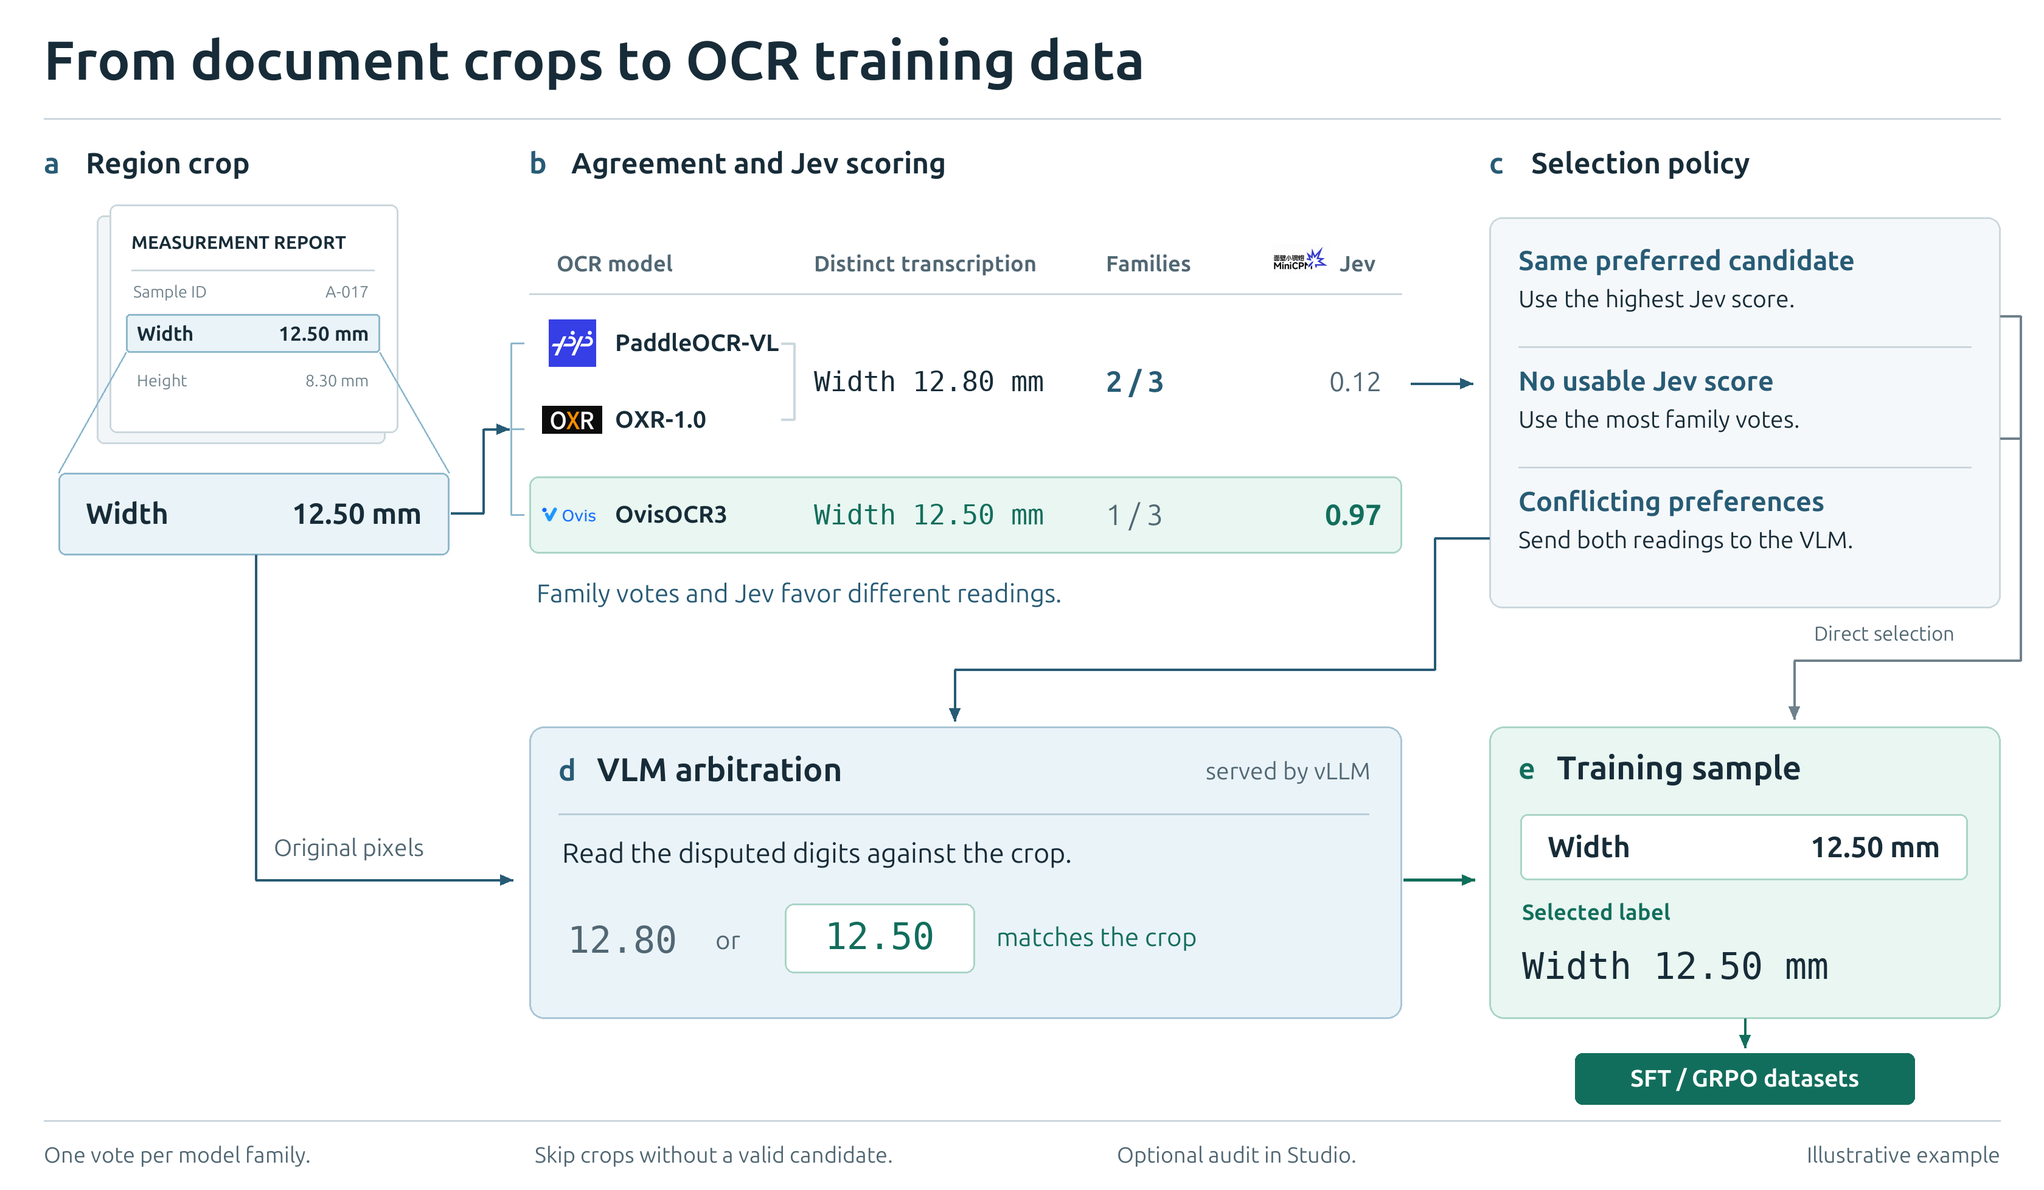
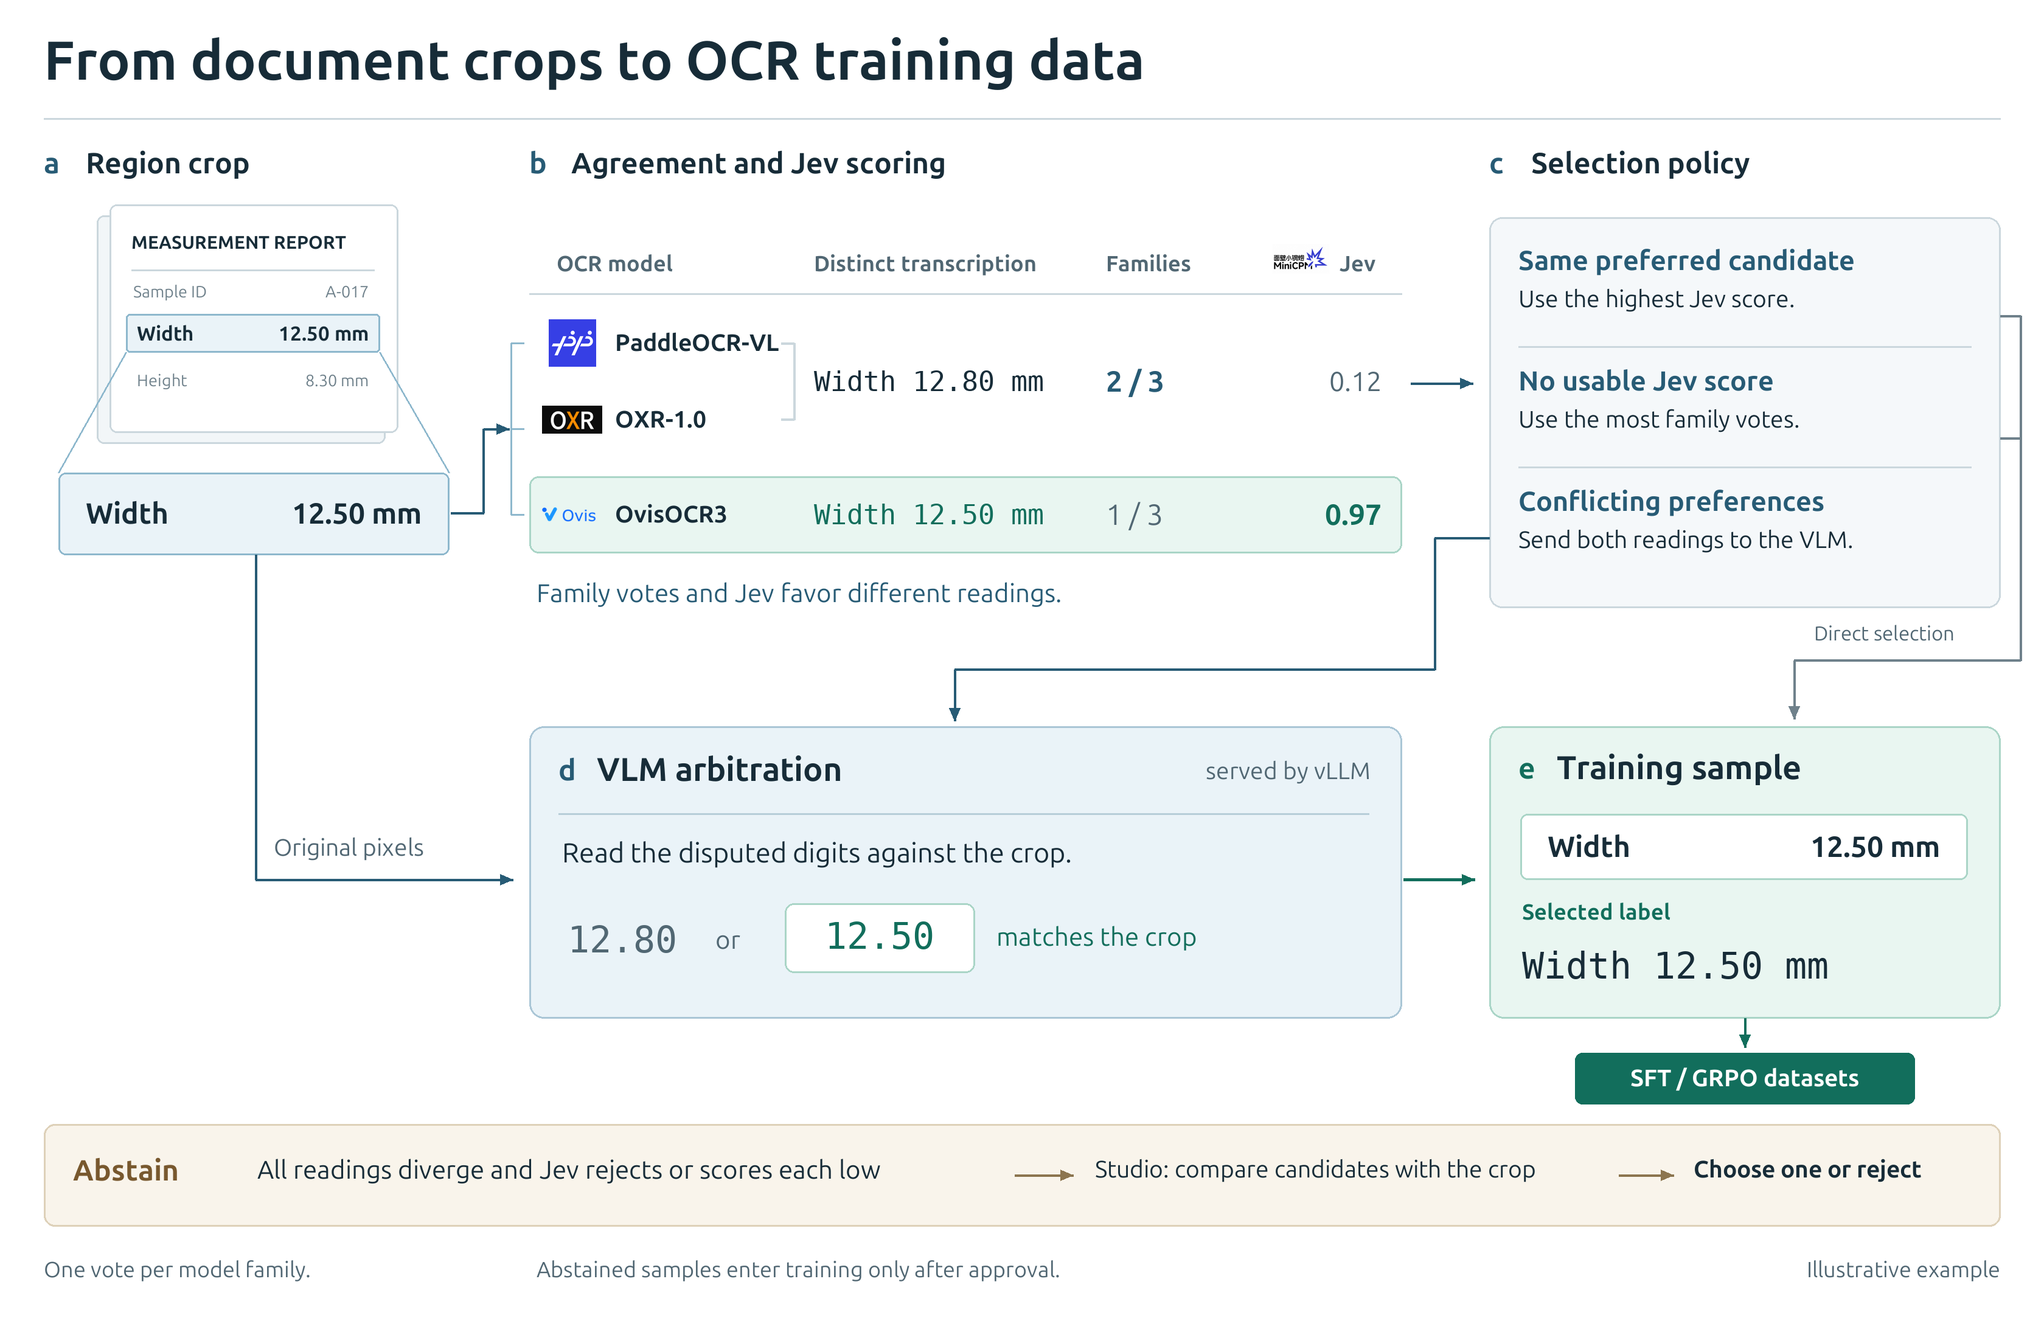
Defer unsupported OCR labels to manual model selection

diff --git a/rsi_ocr/review_ui/workbench.js b/rsi_ocr/review_ui/workbench.js
@@ -8,6 +8,7 @@ const names = {paddle: "PaddleOCR‑VL", oxr: "OXR‑1.0", ovis: "OvisOCR3", jev
 const tasks = {text: "文字", table: "表格"};
 const selectionReasons = {low_score: "最高分偏低", close_scores: "不同转录的分数接近",
   partial_scores: "部分候选评分失败", judge_disabled: "Jev 已关闭",
+  disagree_without_judge_support: "各候选转录两两分歧，Jev 均为低分或预检拒绝",
   no_valid_output: "没有有效转录", no_scored_output: "Jev 未返回可用分数",
   all_precheck_rejected: "全部候选被 Jev 预检拒绝", family_agreement: "多个模型家族转录一致",
   policy_tiebreak: "支持数并列，按配置顺序选择", sole_candidate: "仅有一份可选转录"};
@@ -108,7 +109,7 @@ function renderQueue() {
     const selected = state.current === row.case_id;
     const title = row.doc_id.split("/").pop();
     const status = row.review_status !== "pending" ? statuses[row.review_status] :
-      row.selection_status === "selected" ? nameOf(row.automatic_model) + " · 自动选定" : "无有效转录";
+      row.selection_status === "selected" ? nameOf(row.automatic_model) + " · 自动选定" : row.selection_status === "needs_choice" ? "待人工选模" : "无有效转录";
     return `<button class="queue-item ${selected ? "selected" : ""}" data-case="${esc(row.case_id)}"
       aria-current="${selected}" title="${esc(row.doc_id)} · ${esc(row.region_id)}">
       <strong>${esc(title)}</strong><span class="queue-meta"><span class="row-detail">页 ${esc(row.page_id)} · 区域 ${esc(row.region_id)} · ${esc(tasks[row.task] || row.task)}</span>
@@ -145,6 +146,7 @@ function filterQueue() {
   state.rows = state.data.rows.filter(row => (
     (state.level === "all" || difficultyOf(row) === state.level) &&
     (scope === "all" || (scope === "queue" && row.queued) || (scope === "audit" && row.audit_sample)
+      || (scope === "needs_choice" && row.selection_status === "needs_choice" && row.review_status === "pending")
       || (scope === "selection_check" && row.selection_flagged)
       || (scope === "outside" && !row.queued))
     && (state.task === "all" || row.task === state.task)
@@ -540,6 +542,7 @@ function renderComparison() {
   const automatic = selection.model_alias;
   const adopted = row.decision?.status === "approved" ? row.decision.model_alias : automatic;
   const heading = row.decision?.status === "rejected" ? "已驳回 · 候选转录" :
+    !alias && selection.status === "needs_choice" ? "请选择模型转录" :
     alias === adopted || !alias ? "采用的 OCR 标签" : "候选转录预览";
   q("#selection-heading").textContent = heading;
   q("#selection-model").textContent = alias ? nameOf(alias) : "";
@@ -552,7 +555,9 @@ function renderComparison() {
   q("#selection-detail").textContent = details.join("　");
   q("#selection-detail").classList.toggle("needs-attention", selection.reasons.length > 0);
   const preview = row.baseline_views[alias];
-  q("#selection-output").innerHTML = alias ? output(model.label, preview, false) : '<p class="output-empty">没有有效的 OCR 转录</p>';
+  q("#selection-output").innerHTML = alias ? output(model.label, preview, false) : selection.status === "needs_choice"
+    ? '<p class="output-empty">请对照裁图选择一份转录。若全部有误，可驳回此样本。</p>'
+    : '<p class="output-empty">没有有效的 OCR 转录</p>';
   if (row.task === "table") {
     q("#selection-table").hidden = !preview?.rows;
     q("#selection-table").textContent = `查看完整表格 · ${preview?.rows?.length || 0} 行 × ${sheetWidth(preview)} 列`;
@@ -639,7 +644,7 @@ function renderCase() {
     <div class="case-header">
       <div class="case-heading">
         <div class="case-eyebrow"><span class="task-chip">${esc(tasks[row.task])}</span>
-          <span class="case-status ${esc(stateLabel)}">${esc(decision ? statuses[stateLabel] : row.selection.model_alias ? "已自动选定" : "无有效转录")}</span>
+          <span class="case-status ${esc(stateLabel)}">${esc(decision ? statuses[stateLabel] : row.selection.model_alias ? "已自动选定" : row.selection.status === "needs_choice" ? "待人工选模" : "无有效转录")}</span>
           ${listed?.target_error ? '<span class="case-status incorrect">Paddle 有误</span>' : ""}
           ${listed?.repairable ? '<span class="case-status correct">有正确替代</span>' : ""}</div>
         <h2 title="${esc(row.doc_id)}">${esc(row.doc_id.split("/").pop())}</h2>
@@ -667,9 +672,9 @@ function renderCase() {
         <p class="selection-detail" id="selection-detail"></p>
         ${referenceVerdict(row.selection_gt)}
       </section>
-      <details class="panel inspection-details" id="comparison-details"><summary>各模型转录与判定依据</summary>
+      <details class="panel inspection-details" id="comparison-details" ${row.selection.status === "needs_choice" && !decision ? "open" : ""}><summary>各模型转录与判定依据</summary>
         <div class="preview-tools"><fieldset><legend>显示模型</legend><div id="visible-models"></div></fieldset>
-          <label>人工采用<select id="adopt-model"><option value="" disabled>选择转录</option>${Object.keys(row.models).map(key =>
+          <label>人工采用<select id="adopt-model"><option value="" disabled>选择转录</option>${Object.keys(row.models).filter(key => row.models[key].label).map(key =>
             `<option value="${esc(key)}">${esc(nameOf(key))} · ${number(row.models[key].judge?.prob_yes)}</option>`).join("")}</select></label></div>
         <section class="decision-summary">
           <div><h3>${listed?.queued ? (row.audit_sample ? "随机抽检入队" : "难例入队") : "未入审核队列"} · 判定依据</h3><div class="chips">${badges}</div>${evidenceDetails(row)}</div>
@@ -720,7 +725,7 @@ function changeCase(offset) {
 }
 
 async function saveReview(status) {
-  if (state.saving) return;
+  if (state.saving || (status === "approved" && !state.case?.models[state.compare]?.label)) return;
   const path = casePath();
   const row = state.rows.find(item => item.case_id === state.current);
   const next = state.rows.slice(state.rows.indexOf(row) + 1).find(item => item.review_status === "pending")
@@ -892,7 +897,7 @@ function renderOverview() {
   const scores = summary.judge_status;
   const totalScores = Object.values(scores).reduce((sum, count) => sum + count, 0);
   const cards = [["区域总数", rows.length], ["规则命中", summary.hard_cases], ["已自动选定", rows.filter(row => row.selection_status === "selected").length],
-    ["已完成复核", reviewed], ["Jev 有效评分率", totalScores ? percent((scores.scored || 0) / totalScores) : "—"]];
+    ["待人工选模", rows.filter(row => row.selection_status === "needs_choice" && row.review_status === "pending").length], ["已完成复核", reviewed], ["Jev 有效评分率", totalScores ? percent((scores.scored || 0) / totalScores) : "—"]];
   if (summary.training) cards.push(["批次训练集", summary.training.train], ["批次验证集", summary.training.val]);
   const counts = {};
   rows.forEach(row => row.reasons.forEach(key => { counts[key] = (counts[key] || 0) + 1; }));

diff --git a/rsi_ocr/review_ui/index.html b/rsi_ocr/review_ui/index.html
@@ -5,7 +5,7 @@
   <meta name="viewport" content="width=device-width, initial-scale=1">
   <title>GlyphStack · 文档复核</title>
   <link rel="stylesheet" href="/assets/workbench.css">
-  <script src="/assets/workbench.js?v=training-labels-1" defer></script>
+  <script src="/assets/workbench.js?v=human-choice-1" defer></script>
   <script src="/assets/settings.js" defer></script>
 </head>
 <body>
@@ -66,7 +66,7 @@
         <input id="search" type="search" placeholder="搜索文档、区域或样本 ID">
           <label><span>样本范围</span><select id="scope">
             <option value="all">全部样本</option><option value="queue">抽查队列</option>
-            <option value="selection_check">择优有提示</option><option value="audit">随机抽审</option><option value="outside">未入队</option>
+            <option value="needs_choice">待人工选模</option><option value="selection_check">择优有提示</option><option value="audit">随机抽审</option><option value="outside">未入队</option>
           </select></label>
         <details class="advanced" id="queue-filters"><summary>筛选条件<span id="filter-count"></span></summary>
           <div id="difficulty" class="segments" aria-label="难度"></div>

diff --git a/rsi_ocr/mining.py b/rsi_ocr/mining.py
@@ -1,6 +1,6 @@
 from collections import Counter, defaultdict
 from concurrent.futures import FIRST_COMPLETED, ThreadPoolExecutor, wait
-from itertools import islice
+from itertools import combinations, islice
 from pathlib import Path
 
 from .formats import NUMBER, normalize, similarity, table_cells, table_html, table_metrics
@@ -112,7 +112,7 @@ def proposals(case, inputs, target_alias, policy):
                                            row["judge"].get("prob_yes") or 0), reverse=True)
 
 
-def choose_transcription(models, target, policy):
+def choose_transcription(models, target, policy, task="text"):
     order = dict.fromkeys([target, *policy.get("teachers", []), *sorted(models)])
     valid = [key for key in order if key in models and models[key].get("status") == "ok" and models[key].get("label")]
     choice = {"model_alias": None, "prob_yes": None, "margin": None, "status": "unavailable", "reasons": []}
@@ -128,6 +128,15 @@ def choose_transcription(models, target, policy):
             ranked.append((alias, score))
         elif judge.get("status") != "precheck_reject":
             partial = True
+    # A failed request is missing evidence. Only a score or a precheck verdict
+    # can establish that Jev assessed a candidate.
+    if (policy.get("judge") and len(valid) >= 2 and not partial
+            and all(score <= policy["low_judge"] for _, score in ranked)):
+        threshold = policy["disagreement"]
+        labels = [models[alias]["label"] for alias in valid]
+        distances = (compare(task, left, right)[0] for left, right in combinations(labels, 2))
+        if all(distance > 0 and distance >= threshold for distance in distances):
+            return {**choice, "status": "needs_choice", "reasons": ["disagree_without_judge_support"]}
     if not ranked:
         enabled = bool(policy.get("judge"))
         pool = [alias for alias in valid if not enabled or
@@ -167,8 +176,11 @@ def choose_transcription(models, target, policy):
 
 def stored_selection(row, policy):
     selection = row.get("selection")
-    if policy and (not selection or selection.get("reasons") in (["no_scored_output"], ["judge_disabled"])):
-        return choose_transcription(row["models"], row["target_alias"], policy)
+    reasons = set(selection.get("reasons", [])) if selection else set()
+    if policy and (not selection or reasons.intersection({"no_scored_output", "judge_disabled", "low_score",
+                                                          "all_precheck_rejected"})
+                   or (selection.get("prob_yes") is not None and selection["prob_yes"] <= policy["low_judge"])):
+        return choose_transcription(row["models"], row["target_alias"], policy, row["task"])
     if selection and selection.get("status") == "needs_check" and selection.get("model_alias"):
         return {**selection, "status": "selected"}
     return selection
@@ -231,7 +243,7 @@ class Miner:
         return {**{key: value for key, value in case.items() if key != "target"},
                 "case_id": case_id, "image_sha256": image_hash, "image": str(path), "models": inputs,
                 "target_alias": target, **evidence(case, inputs, target, self.policy),
-                "selection": choose_transcription(inputs, target, self.policy),
+                "selection": choose_transcription(inputs, target, self.policy, task),
                 "proposals": proposals(case, inputs, target, self.policy)}
 
 
@@ -388,6 +400,7 @@ def mine(config, manifest, output, cached_readers=False, check_cancelled=None, r
 
     evidence = {row["case_id"]: row for row in rows}
     evidence_path = output / "evidence.jsonl"
+    summary["needs_choice"] = sum(row["selection"]["status"] == "needs_choice" for row in rows)
     summary["selected"] = sum(bool(row["selection"]["model_alias"]) for row in rows)
     summary["training"] = write_training(config, evidence_path, evidence,
                                          batch_labels(evidence, evidence_path, policy), output / "training")

diff --git a/tests/test_pipeline.py b/tests/test_pipeline.py
@@ -440,6 +440,20 @@ class PipelineTest(unittest.TestCase):
         self.assertEqual(result["label"], "Paddle output")
         self.assertEqual(result["reasons"], ["judge_disabled", "sole_candidate"])
 
+    def test_abstain_only_on_pairwise_disagreement_and_explicit_negative_judgments(self):
+        policy = self.config["mining"]
+        models = {key: {"status": "ok", "label": label,
+                        "judge": {"status": "scored", "prob_yes": policy["low_judge"]}}
+                  for key, label in [("paddle", "alpha"), ("oxr", "bravo"), ("ovis", "delta")]}
+        models["ovis"]["judge"] = {"status": "precheck_reject"}
+        held = choose_transcription(models, "paddle", policy)
+        self.assertEqual((held["status"], held["model_alias"]), ("needs_choice", None))
+        models["oxr"]["label"] = "alpha"
+        self.assertEqual(choose_transcription(models, "paddle", policy)["status"], "selected")
+        models["oxr"]["label"] = "bravo"
+        models["ovis"]["judge"] = {"status": "service_error"}
+        self.assertEqual(choose_transcription(models, "paddle", policy)["status"], "selected")
+
     def test_selection_compares_distinct_transcripts_in_policy_order(self):
         def scored(label, value):
             return {"status": "ok", "label": label, "judge": {"status": "scored", "prob_yes": value}}

diff --git a/README.md b/README.md
@@ -222,7 +222,8 @@ glyphstack stop all --port 8520            # 命令行卸载全部模型
 有部分或全部区域的 GT 时，可在批次的 `input/references.jsonl` 中按区域写入 `doc_id`、`page_id`、`region_id`、`task`、`image_sha256` 和 `reference`（文字转录或表格 HTML），然后重新导入批次。前五项可从 `production/selected.jsonl` 复制。复核页显示自动所选模型和最接近 GT 的模型，文字按字符错误率 CER 取最低，表格按 TEDS 取最高，同分并列。总览显示有 GT 的区域数，以及至少两个有效候选且有自动选择的区域中有多少命中最近候选。
 
 - **看结果**。文字和表格默认显示整页原图、区域裁图和选中的转录，点「下一条」即可连续浏览。点击图片可放大、拖动，原页框标出当前区域。打开有人工记录的区域时会恢复上次复核所选模型。
-- **看择优依据**。相同转录只占一个名次。同分优先保留 Paddle，再按教师配置顺序选择。最高分低于 `mining.proposal_judge`（默认 0.90）、不同转录分差低于 `mining.selection_margin`（默认 0.05）、并列最高或部分候选评分失败时，直接采用最高分转录并记录择优依据。没有可用分数或关闭 Jev 时，按支持同一转录的不同模型家族数择优（比较时归一化空白），并列时按上述模型顺序选择。有其他有效候选时排除预检拒绝项，全部被拒绝时也保留一份候选。这些自动标签同样直接采用，得分留空。只有全部 OCR 候选为空或无效时才没有转录。可用「样本范围 → 择优有提示」集中查看。
+- **待人工选模**。至少有两份有效 OCR 结果、每一对转录的距离都达到本次运行的 `mining.disagreement`（默认 0.12），且每份都被 Jev 预检拒绝或得分 ≤ `mining.low_judge`（默认 0.45）时，自动择优留空，状态为 `needs_choice`。Studio 的「样本范围 → 待人工选模」覆盖整个批次，可对照裁图和候选，选择模型后点「确认通过」，或驳回全部。确认后重新导出即可纳入训练。评分服务异常或未启用时仍使用已有的无分回退规则。
+- **看择优依据**。对于未触发「待人工选模」的样本，相同转录只占一个名次。同分优先保留 Paddle，再按教师配置顺序选择。最高分低于 `mining.proposal_judge`（默认 0.90）、不同转录分差低于 `mining.selection_margin`（默认 0.05）、并列最高或部分候选评分失败时，直接采用最高分转录并记录择优依据。没有可用分数或关闭 Jev 时，按支持同一转录的不同模型家族数择优（比较时归一化空白），并列时按上述模型顺序选择。有其他有效候选时排除预检拒绝项，全部被拒绝时也保留一份候选。这些自动标签同样直接采用，得分留空。无有效转录的区域跳过。可用「样本范围 → 择优有提示」集中查看。
 - **按需复核**。展开「各模型转录与判定依据」可对照差异或改选模型。点 **确认通过** 保存人工确认，点 **驳回** 标记错误。展开「筛选条件」并选择「非难例」可批量确认其中通过择优质量筛查的结果，支持撤销。
 - **取自动结果**。批次结束即生成 `production/selected.jsonl`，也可从 Studio 顶部「导出 → 区域自动择优结果 JSONL」下载。旧批次直接用已保存的评分生成下载内容。
 - **导出**。审核决定写入 `production/review.sqlite`。无需打开 Studio 或逐条确认，批次结束即可使用自动标签。命令行运行 `rsi-ocr export runs/批次名/production/evidence.jsonl --out training` 可导出 SFT 和 GRPO 数据，已有 Studio 筛查记录时会采用人工改选并跳过驳回项；显式传入复核记录文件时仅导出文件中已通过的样本。Studio 顶部「导出 → 最终标签 JSONL」和 SFT 导出默认采用自动标签，人工改选的区域采用确认后的标签，驳回的区域跳过。导出生成带 UTC 时间戳的 SFT JSONL，保存在 `production/sft_exports/`。图片路径指向批次裁图，表格答案采用 OTSL。[PaddleOCR‑VL 官方数据格式](https://github.com/PaddlePaddle/ERNIE/blob/release/v1.5/docs/paddleocr_vl_sft_zh.md)
